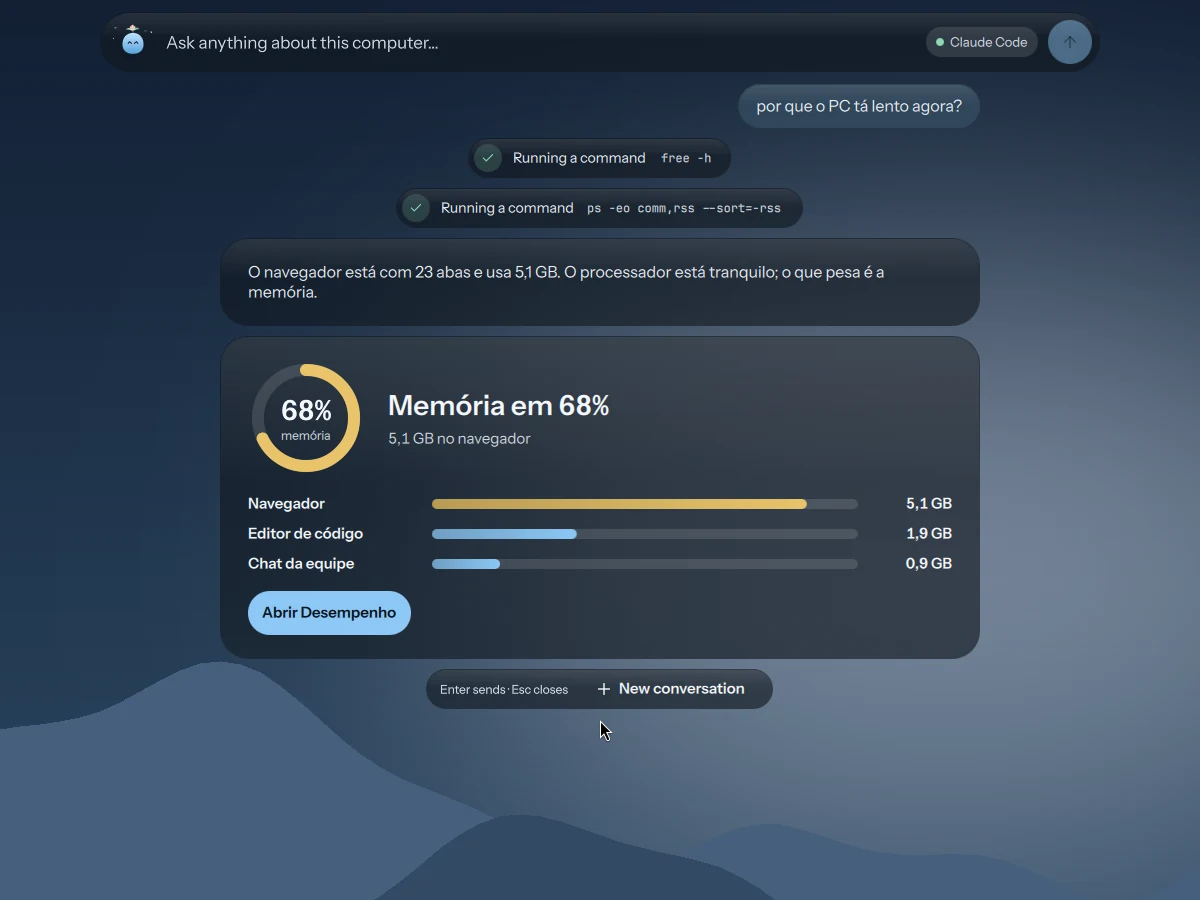
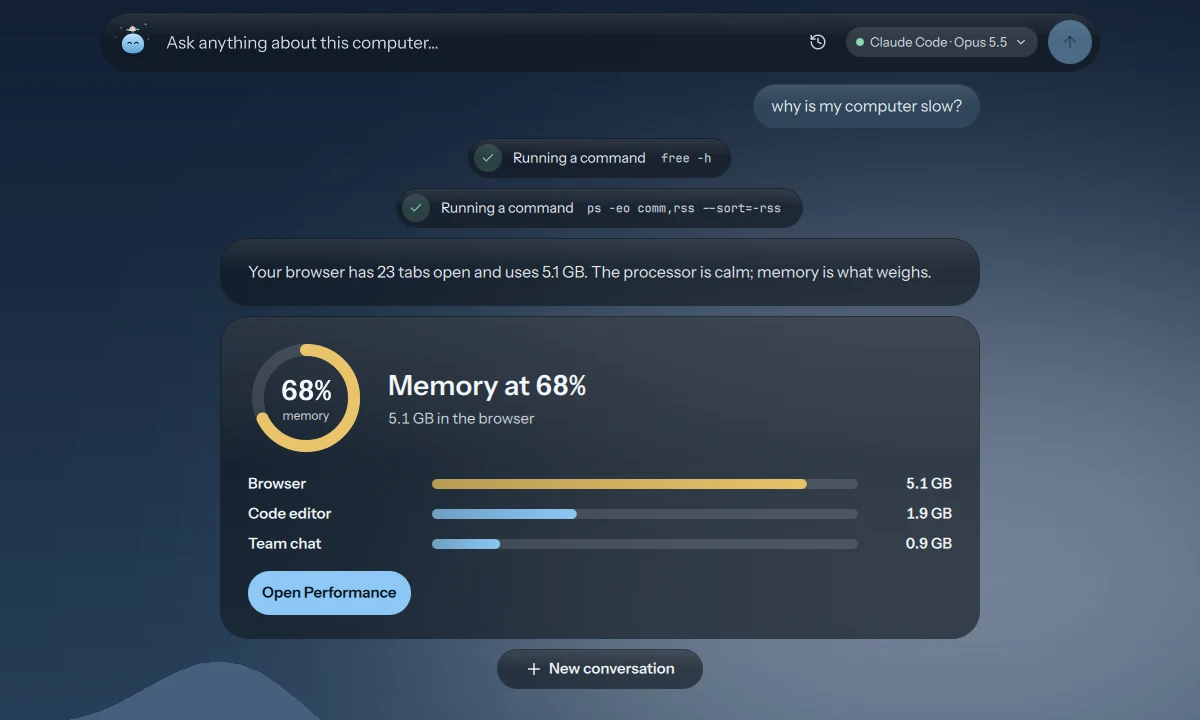
docs: model, effort and history, with fresh screenshots

Changed region(s): [[0.0, 0.1528, 1.0, 1.0], [0.6167, 0.0306, 0.925, 0.1528], [0.0925, 0.0306, 0.37, 0.0917]]

diff --git a/README.pt-BR.md b/README.pt-BR.md
@@ -26,7 +26,10 @@ logada no seu computador, então não tem conta, chave nem cobrança própria.
 - **Controla o desktop:** abre qualquer tela da central, a busca, a visão geral, a área de transferência, os emojis e o dock. Liga e desliga o foco, controla a música, abre apps, troca de área de trabalho e move janelas.
 - **Pergunta antes:** uma lista curta de comandos roda sozinha. O resto espera o seu OK, mostrando o comando exato.
 - **Humores:** ele ouve, pensa, trabalha, espera por você, comemora, mostra erros e dorme, na barra e na ilha.
+- **Modelo, esforço e histórico:** escolha o modelo (Opus 5.5, Sonnet 5.5, …) e o esforço pela barra, e reabra ou continue conversas antigas. O histórico fica só no seu computador.
 - **Você escolhe a IA:** Claude Code, Cursor ou Codex, na tela Assistente do Atoll (`Super+Alt+G`).
+
+![Conversas antigas](docs/screenshots/history.webp)
 
 ## Humores
 

diff --git a/README.md b/README.md
@@ -26,7 +26,10 @@ computer, so there is no account, key or bill of its own.
 - **Controls the desktop:** opens any control-center screen, the launcher, overview, clipboard, emoji picker and dock. Starts and stops focus mode, controls the music, launches apps, switches workspaces and moves windows.
 - **Asks first:** a short list of commands runs on its own. Anything else waits for your OK, with the exact command shown.
 - **Moods:** it listens, thinks, works, waits for you, celebrates, shows errors and sleeps, in the bar and in the island.
+- **Model, effort and history:** pick the model (Opus 5.5, Sonnet 5.5, …) and the effort from the bar, and reopen or continue past conversations. The history stays on your computer only.
 - **Your choice of AI:** Claude Code, Cursor or Codex, picked in Atoll's Assistant screen (`Super+Alt+G`).
+
+![Past conversations](docs/screenshots/history.webp)
 
 ## Moods
 
